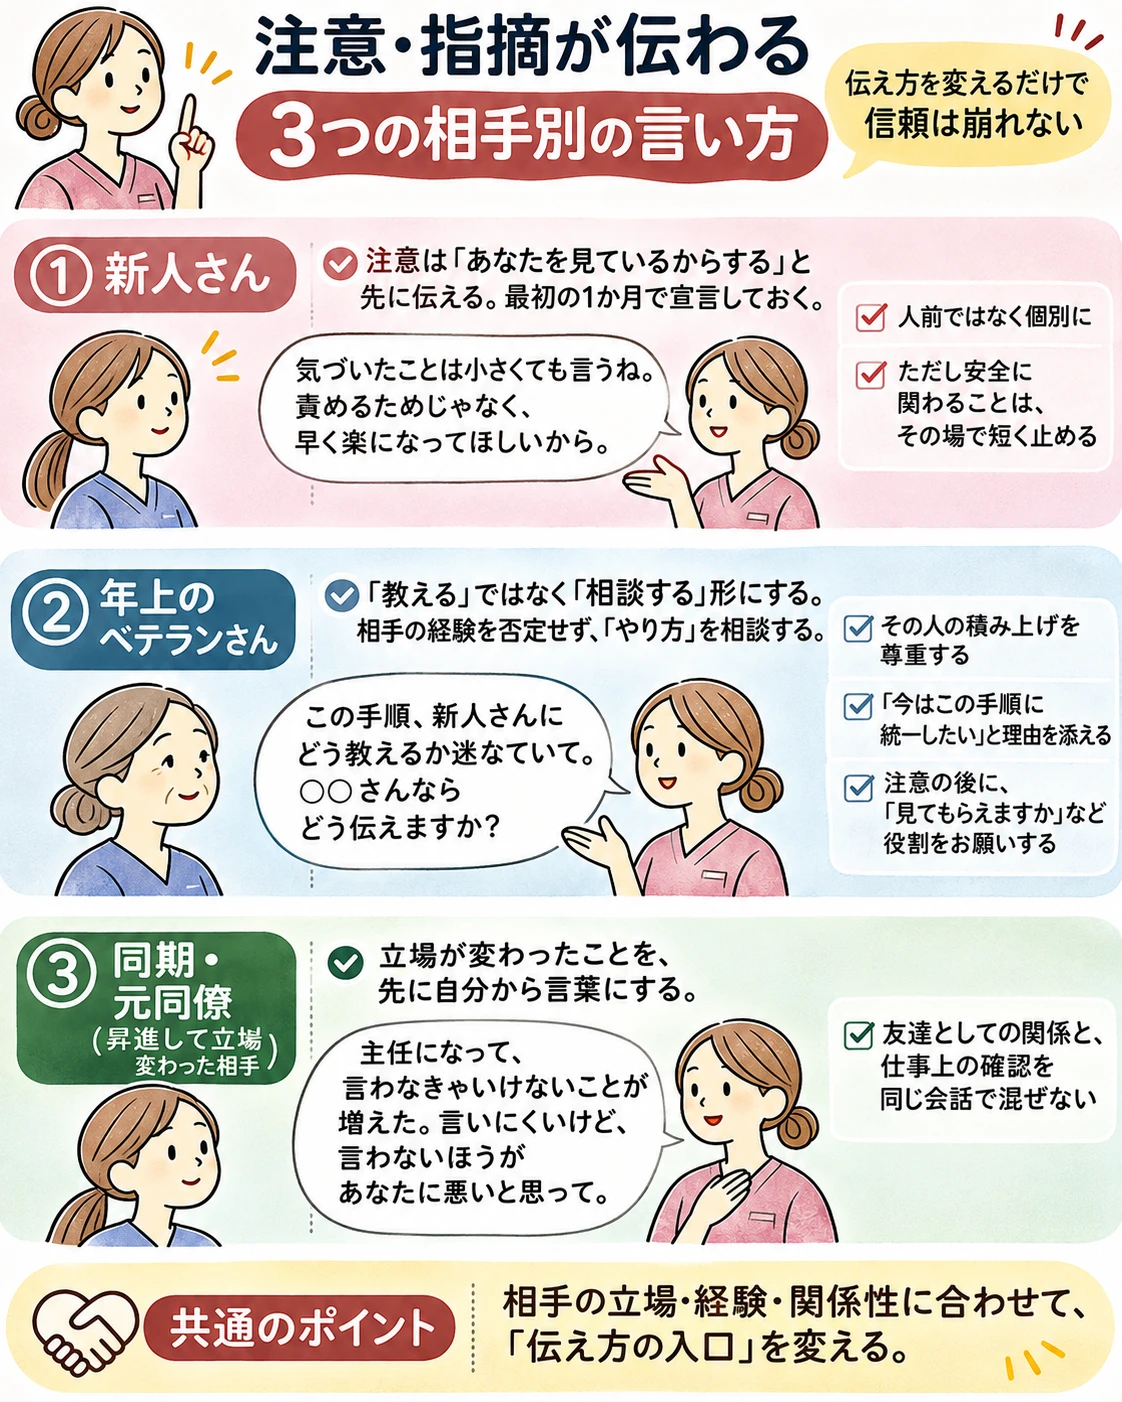
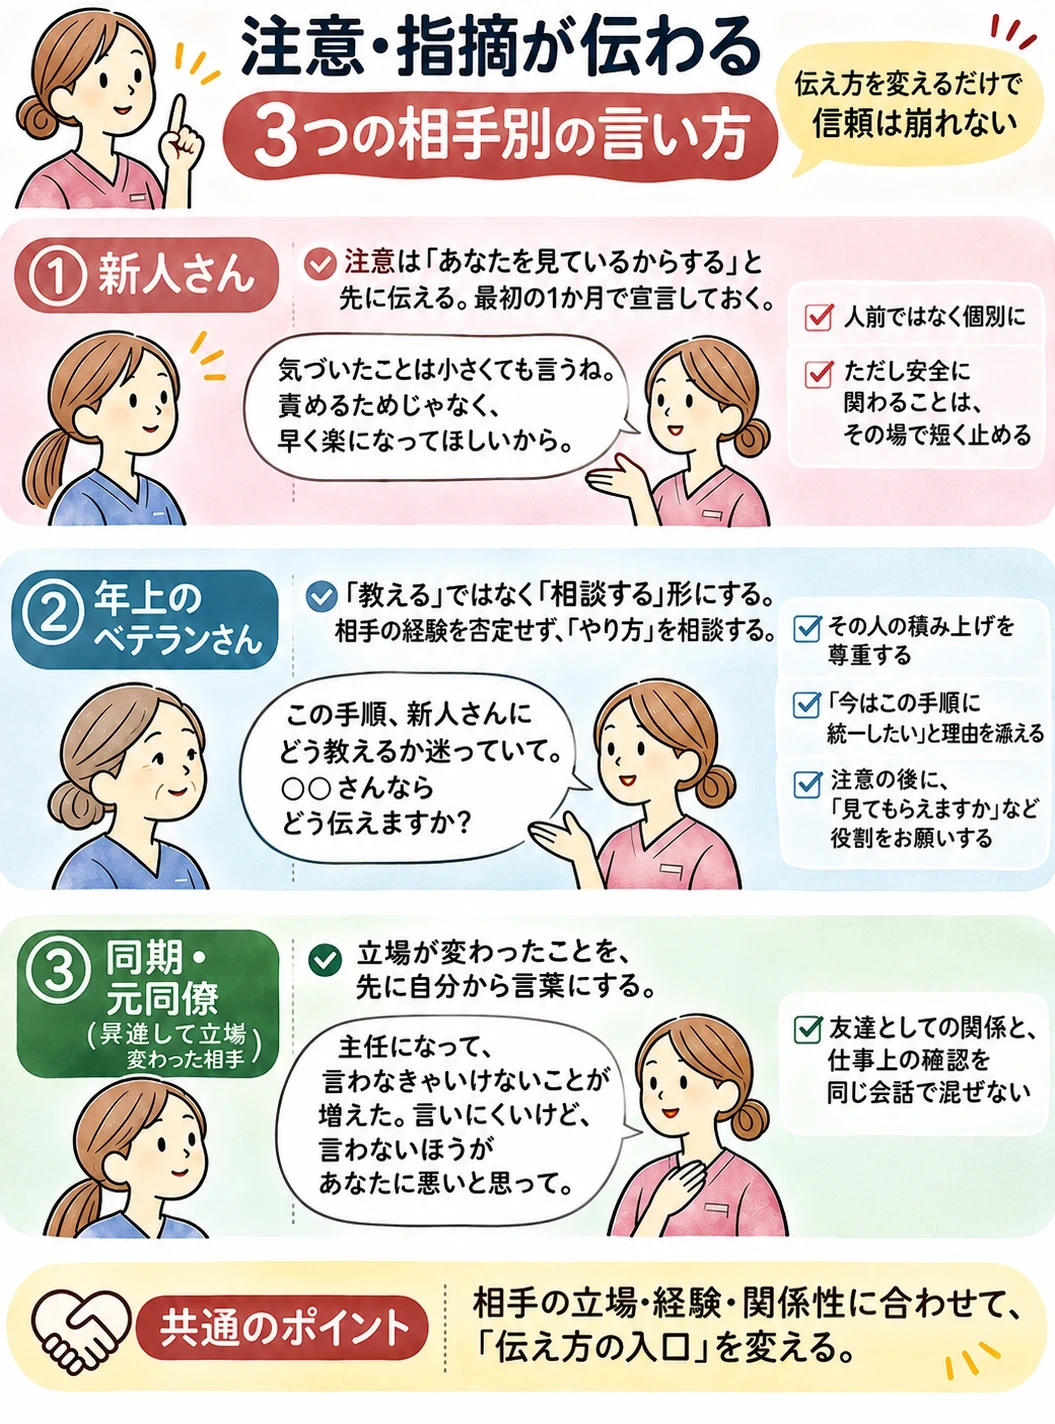
note: 言い換え20と相手別3パターンの修正版画像に差し替え（全8枚完成）
Claude-Session: https://claude.ai/code/session_01MhqkquMeLZPqsa5KG1MpEb

diff --git a/content/caredesign/note/images/pawahara/_未作成画像の指示書.md b/content/caredesign/note/images/pawahara/_未作成画像の指示書.md
@@ -1,13 +1,6 @@
-# 図解画像の状態と修正リスト
+# 図解画像の状態
 
-8枚すべて作成済み。以下の誤字を、画像編集ツールで該当文字だけ上書きして直す。
-（画像を生成し直すと、別の箇所の日本語が崩れやすいため）
+8枚すべて完成（誤字修正済み）。
 
-## 修正待ち
-- 02-iikae-20.webp（初版を採用）：No.9「聞こえたがもしれない」→「聞こえたかもしれない」
-- 03-aite-betsu.webp：年上のベテランさんの吹き出し「迷なていて」→「迷っていて」
-- 08-yasashisa-kakugo.jpg：誤字は修正済み。任意でタイトル「覚」と「悟」の間の黒い汚れを消す
-
-## 不採用
-- 言い換え20の再生成版：No.9は直ったが、「様子観察」「途中」「困る」「移乗」「目線」「コツ」
-  「業務」「順番」「減る」「慣れる」など10か所以上で文字が崩れたため、初版を採用
+- 03-aite-betsu.webp：再生成版で下部に意味不明な一文が追加されたため、その行をトリミングで削除済み
+- 08-yasashisa-kakugo.jpg：任意でタイトル「覚」と「悟」の間の黒い汚れを消す

diff --git a/content/caredesign/note/pawahara-ga-kowakute-ienai.md b/content/caredesign/note/pawahara-ga-kowakute-ienai.md
@@ -184,7 +184,7 @@ Aさんはあなたにこう言う。
 
 ### ■NG→OK言い換えセリフ20
 
-【画像挿入：images/pawahara/02-iikae-20.webp】※画像内 No.9「聞こえたがもしれない」→「聞こえたかもしれない」修正後に差し替え
+【画像挿入：images/pawahara/02-iikae-20.jpg】
 
 現場でよくある5つの場面ごとに、4つずつ。
 
@@ -222,7 +222,7 @@ Aさんはあなたにこう言う。
 
 ### ■相手別：3つのパターン
 
-【画像挿入：images/pawahara/03-aite-betsu.webp】※画像内「迷なていて」→「迷っていて」修正後に差し替え
+【画像挿入：images/pawahara/03-aite-betsu.webp】
 
 
 **①新人さん**
